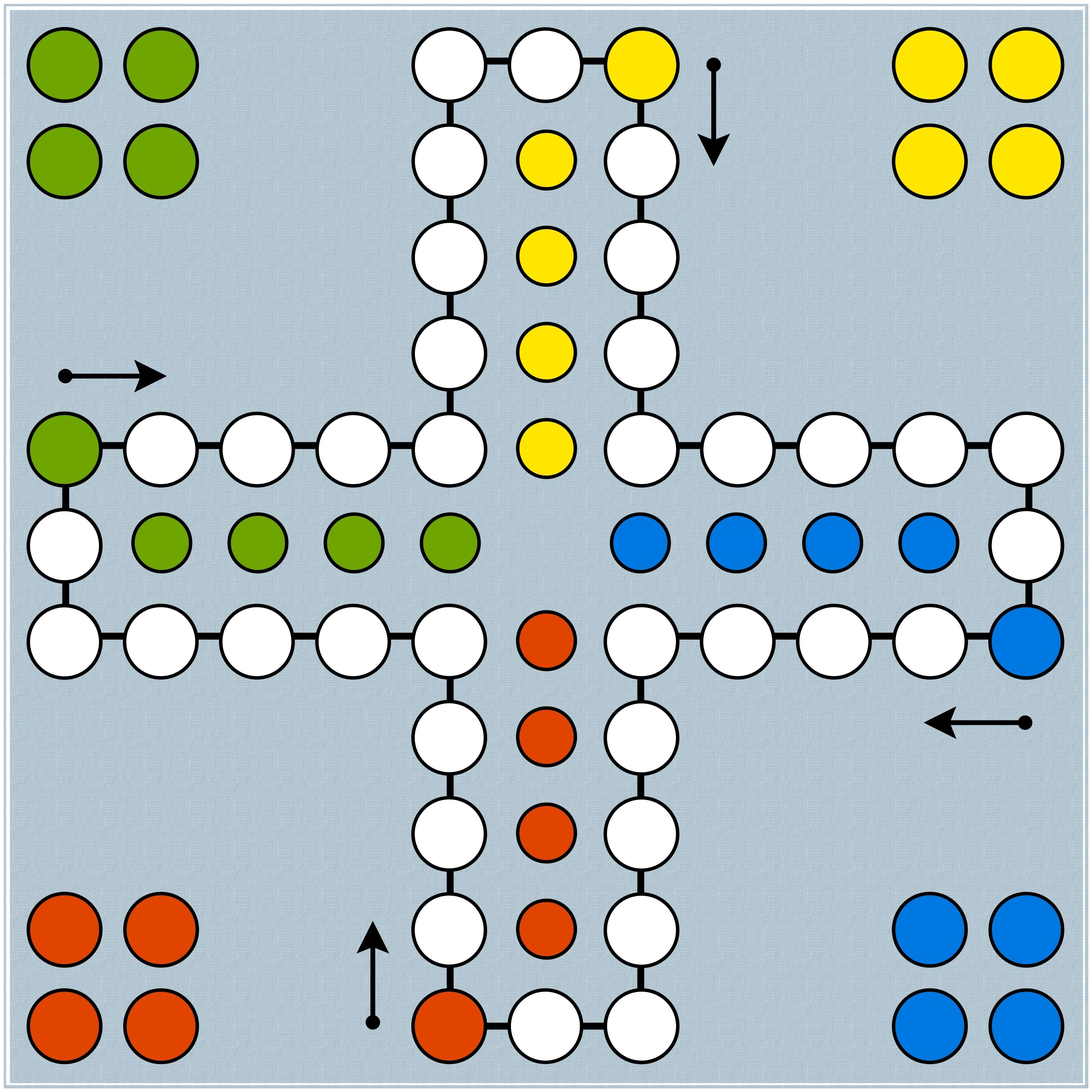
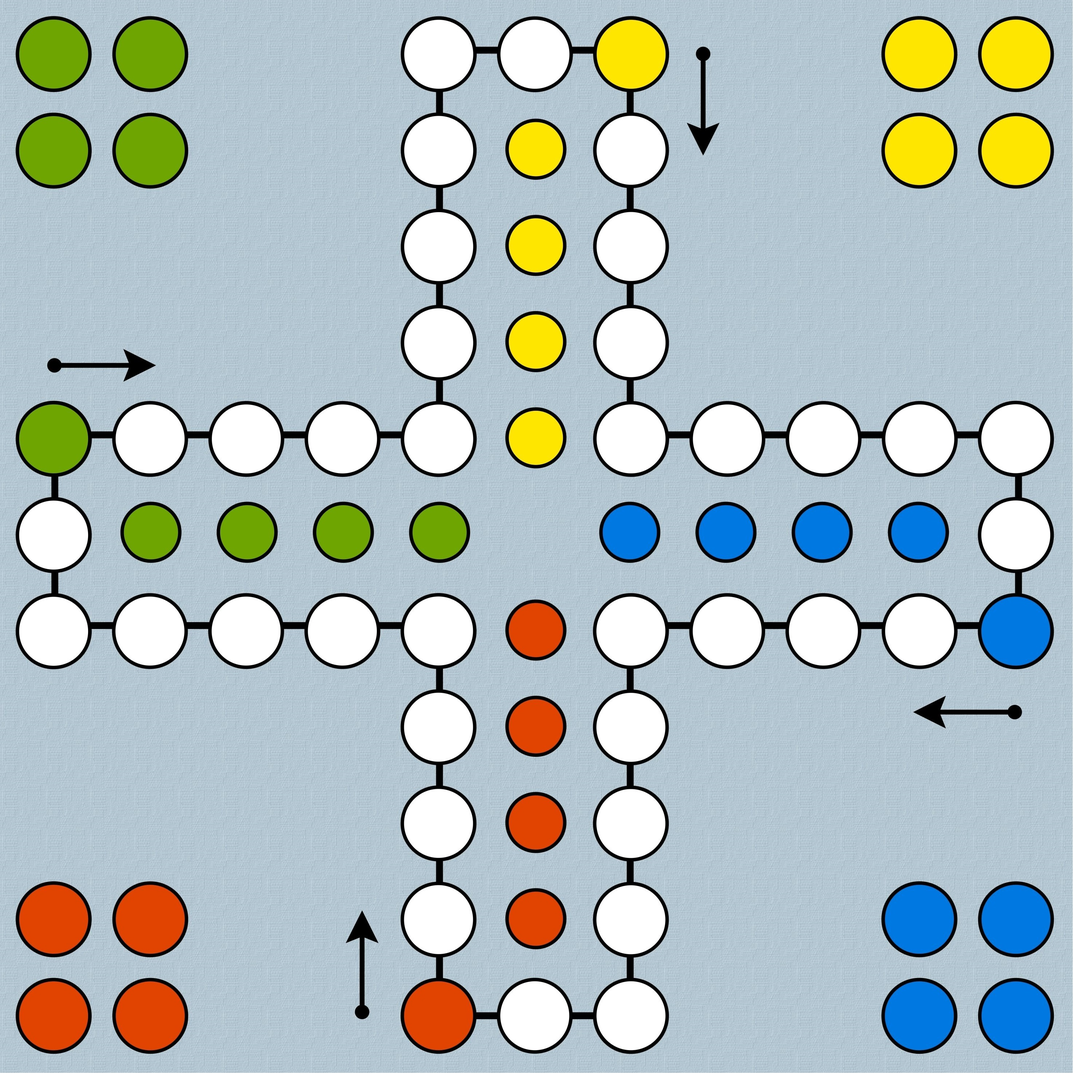
minor changes to readability

Changed region(s): [[0.0, 0.0, 1.0, 1.0], [0.5927, 0.5615, 0.6551, 0.6551]]

diff --git a/Engine.py b/Engine.py
@@ -72,7 +72,7 @@ class Engine:
                     if rolled_number == 6 and self.player_list[current_player].has_pawn_in_house():
                         self.move_pawn_out_of_house(current_player)
                         rolled_number = self.roll_dice()
-                        self.move_pawn(current_player, self.player_list[current_player].get_pawn_on_start_field(), rolled_number)
+                        self.move_pawn(current_player, self.player_list[current_player].get_pawn_number_on_start_field(), rolled_number)
                         if rolled_number != 6:
                             turn = False
                         break

diff --git a/true_main.py b/true_main.py
@@ -18,7 +18,7 @@ def create_players():
 player_list = create_players()
 my_font = pygame.font.SysFont("Arial", 50)
 
-background_image = pygame.image.load('GameField2.jpg')
+background_image = pygame.image.load('GameField.jpg')
 gamefield = GameField.GameField(background_image, my_font)
 
 engine = Engine.Engine(player_list, gamefield)

diff --git a/Player.py b/Player.py
@@ -28,7 +28,7 @@ class Player:
                 return True
         return False
 
-    def get_pawn_on_start_field(self) -> int:
+    def get_pawn_number_on_start_field(self) -> int:
         for pawn in self.pawn_list:
             if pawn.current_position == (pawn.player_number - 1) * 10:
                 return pawn.pawn_number

diff --git a/colors.py b/colors.py
@@ -1,6 +1,6 @@
 colors = {
-    1: (8, 255, 65),
-    2: (161, 151, 21),
-    3: (31, 199, 237),
-    4: (143, 6, 19)
+    1: (8, 255, 65),  # light green
+    2: (161, 151, 21),  # dark yellow
+    3: (31, 199, 237),  # light blue
+    4: (143, 6, 19)  # dark red
 }
